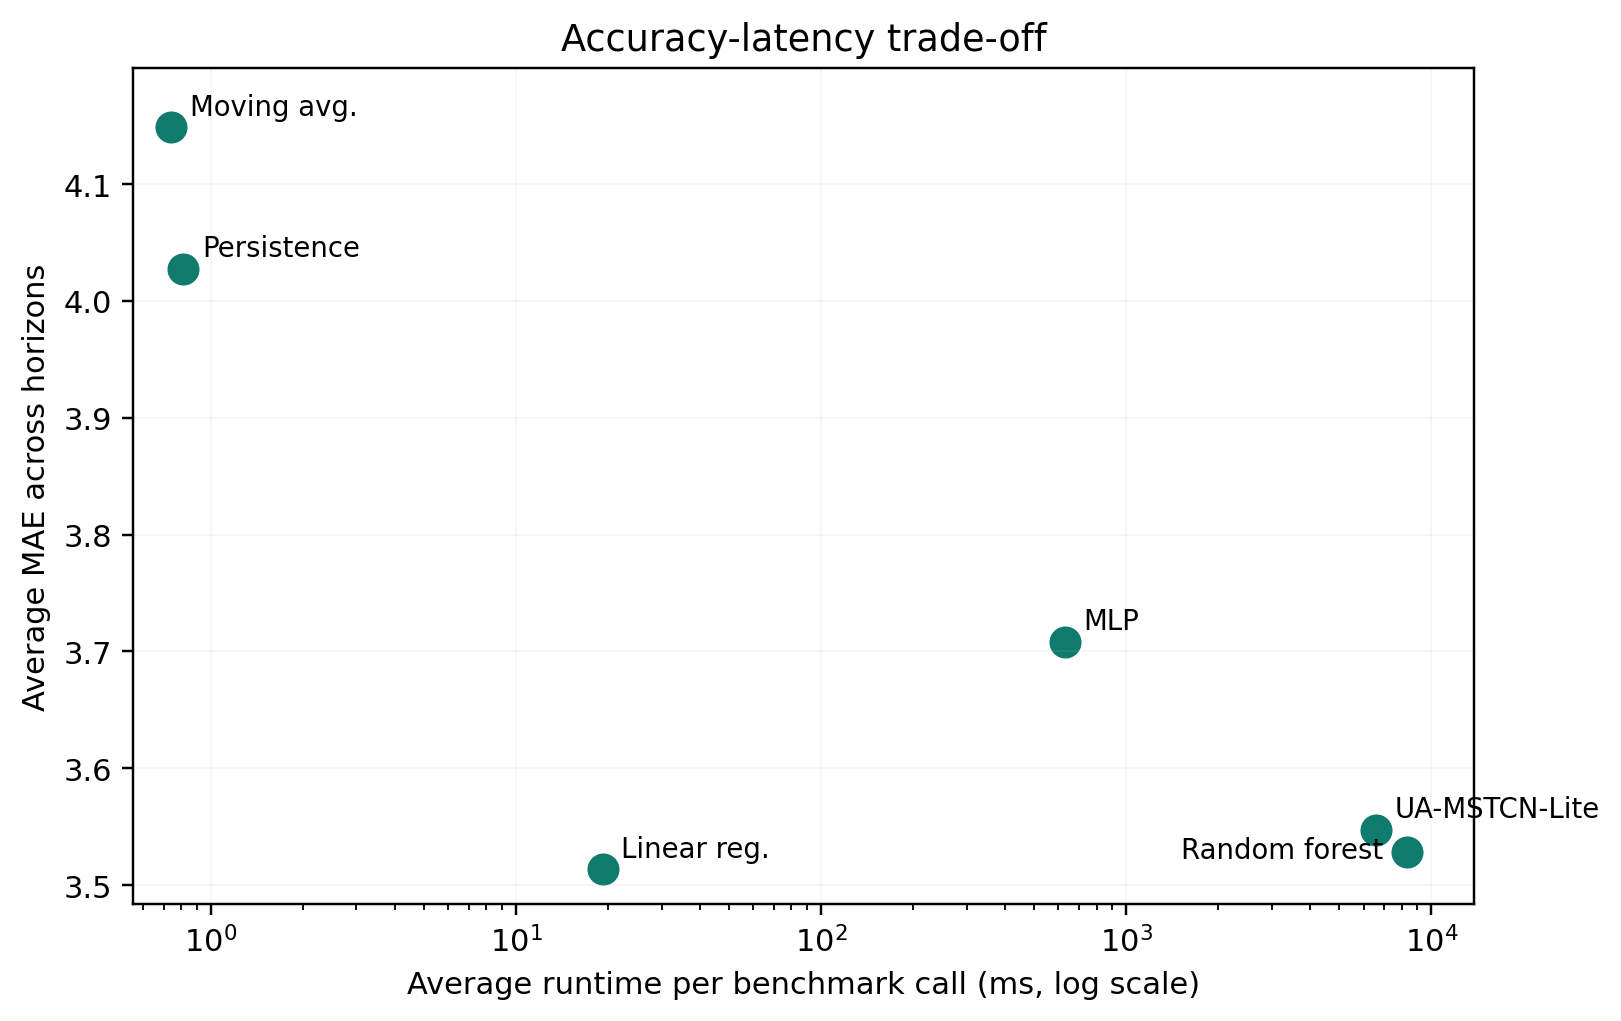
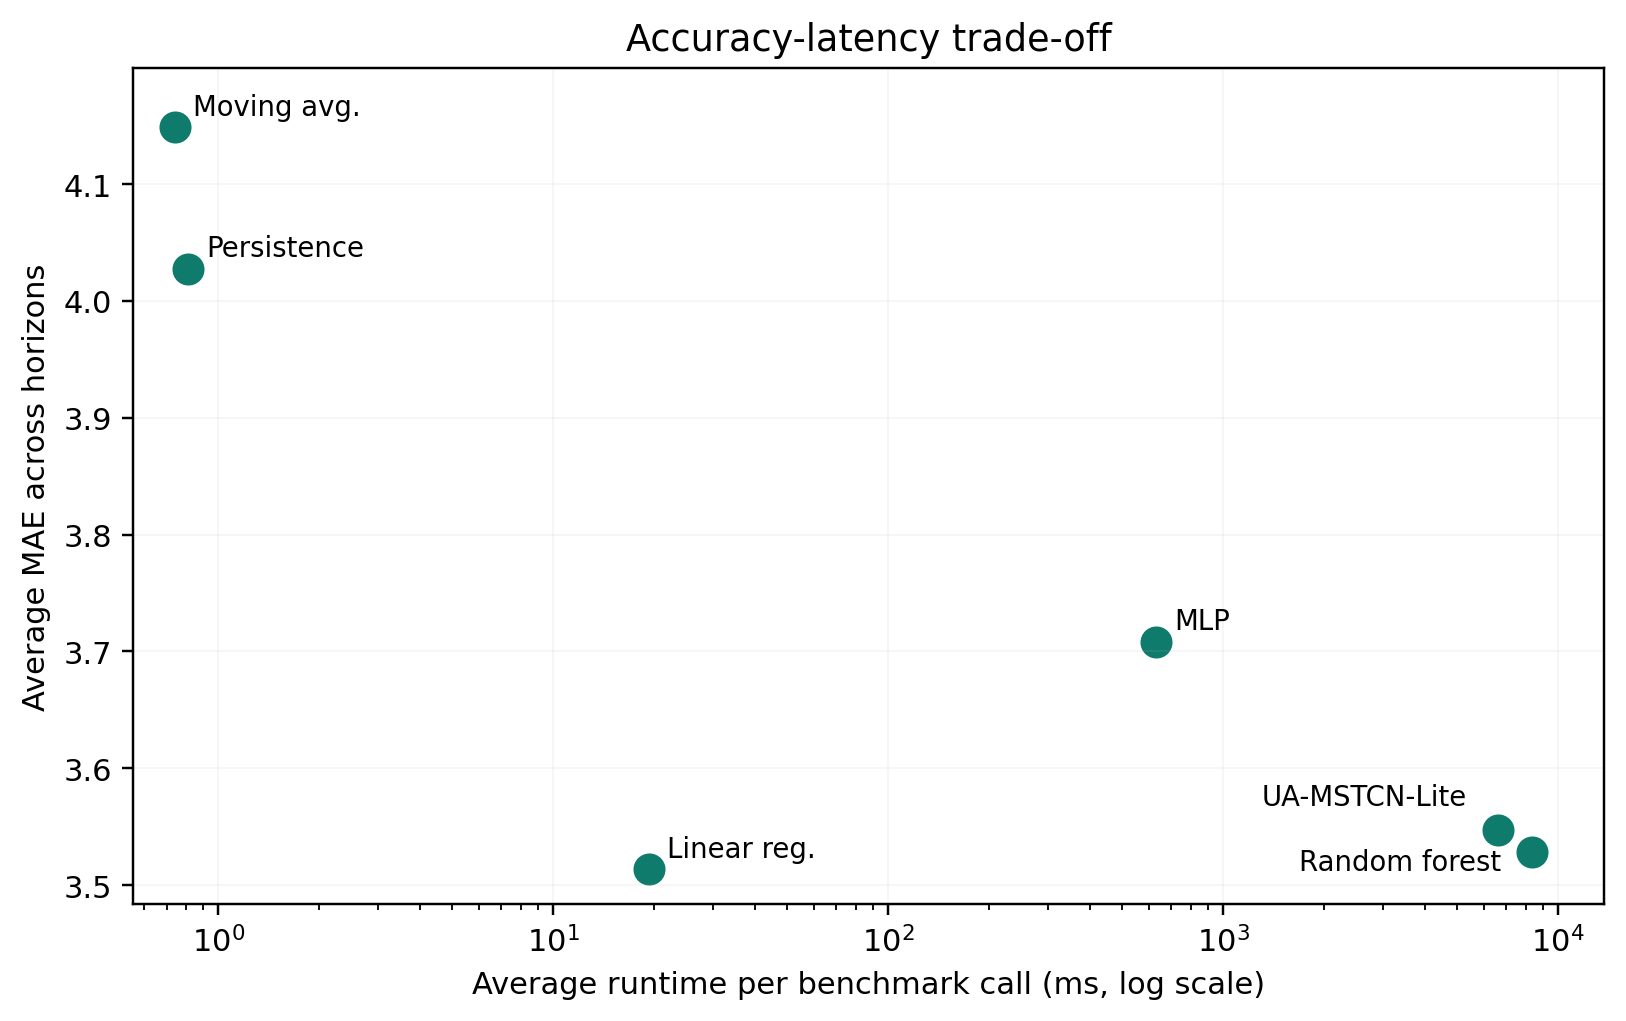
Tighten latency trade-off label placement

diff --git a/experiments/render_manuscript_figures.py b/experiments/render_manuscript_figures.py
@@ -286,8 +286,8 @@ def render_latency_tradeoff(metrics_df: pd.DataFrame, path: Path) -> None:
         "persistence": (6, 4, "left"),
         "linear_regression": (6, 4, "left"),
         "mlp_regressor": (6, 4, "left"),
-        "ua_mstcn_lite_quantile_forest": (6, 4, "left"),
-        "random_forest": (-8, -2, "right"),
+        "ua_mstcn_lite_quantile_forest": (-10, 8, "right"),
+        "random_forest": (-10, -6, "right"),
     }
     for _, row in summary.iterrows():
         offset_x, offset_y, ha = x_offsets.get(row["model_name"], (6, 4, "left"))